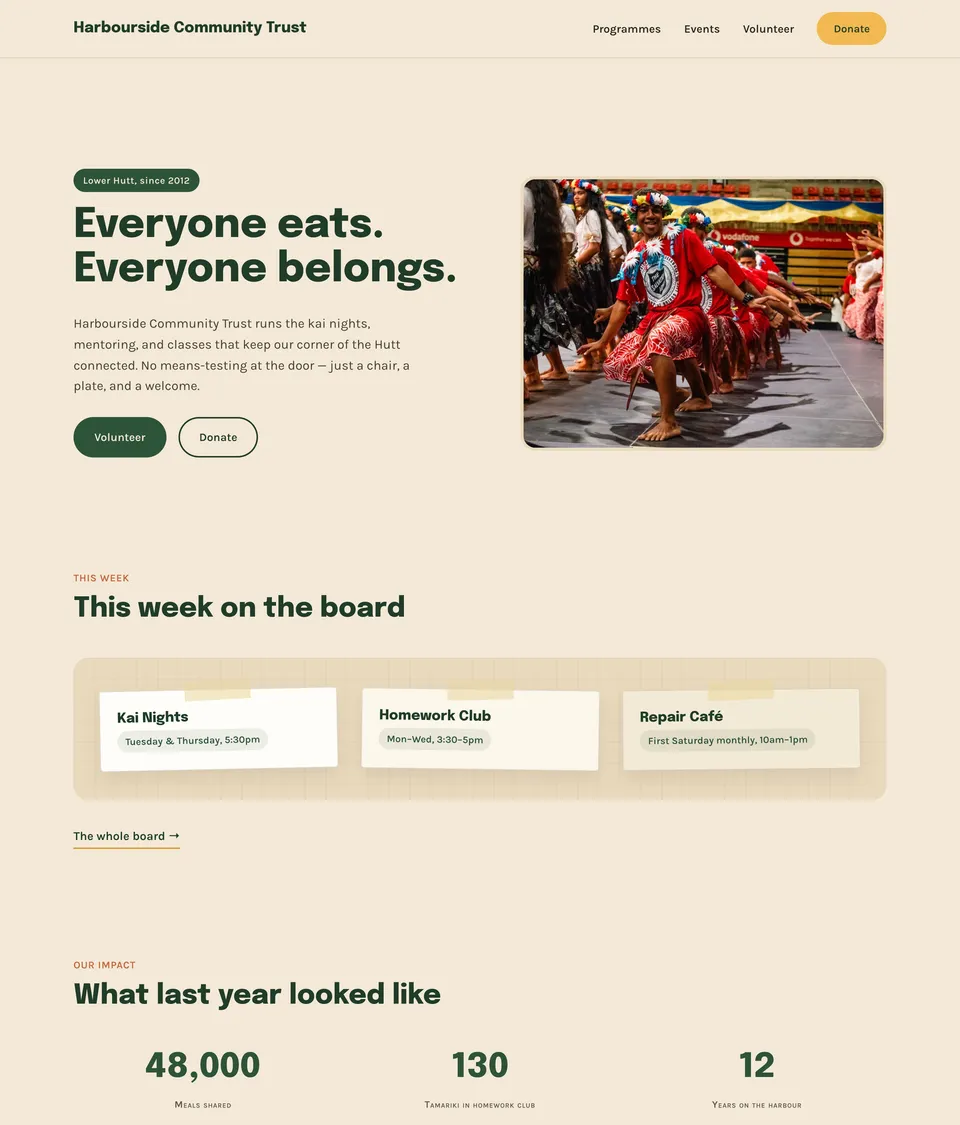
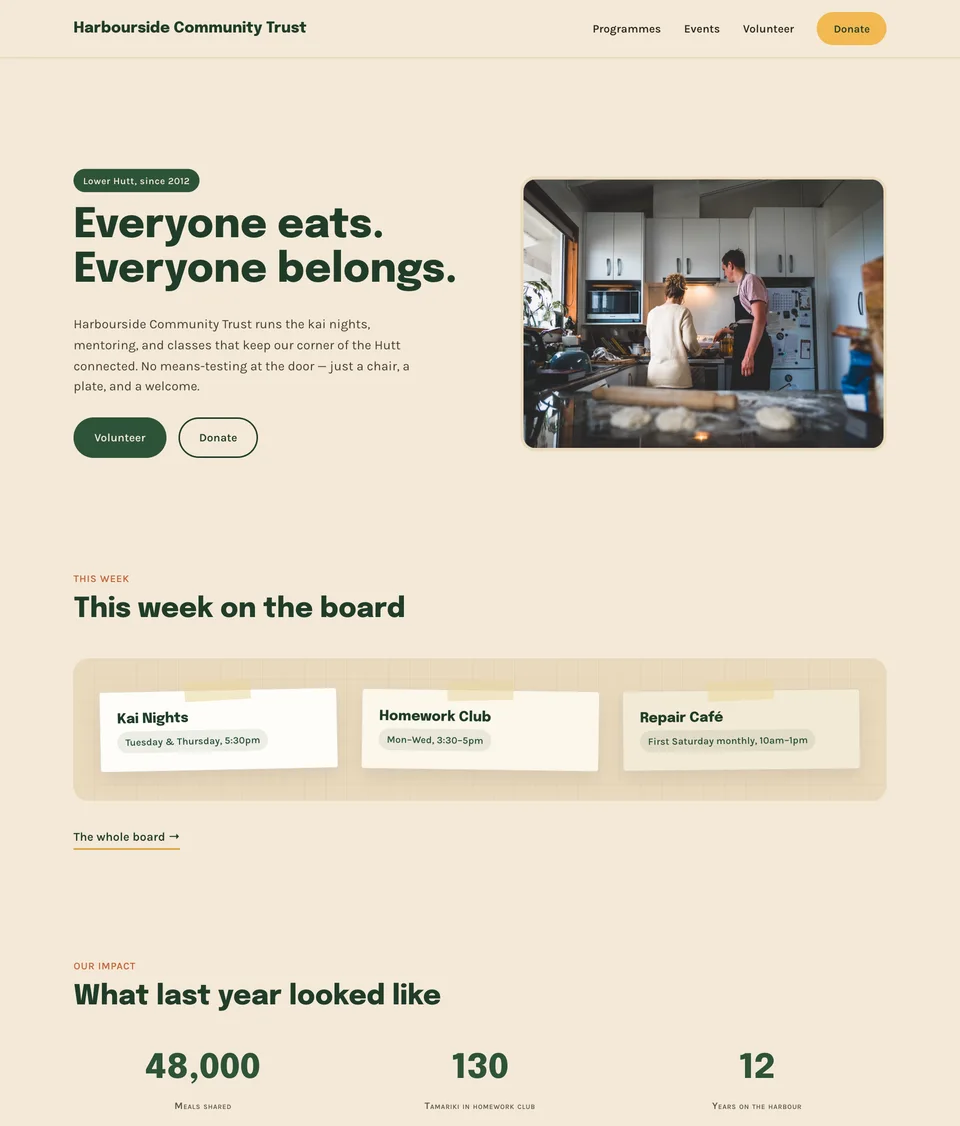
Remove real-world details from the template demos and reword the shop claim

Changed region(s): [[0.5312, 0.1556, 0.9375, 0.4044], [0.0938, 0.28, 0.375, 0.3111], [0.25, 0.8711, 0.2812, 0.9022]]

diff --git a/templates/commons.html b/templates/commons.html
@@ -642,7 +642,7 @@
           </div>
         </div>
         <div class="hero-photo-wrap">
-          <img src="../assets/img/gal-pasifika.jpg" alt="A community gathering in full swing, with people dancing and celebrating together." loading="eager">
+          <img src="../assets/img/archive/ar-kitchen.jpg" width="1400" height="933" alt="Two people cooking side by side in a kitchen, with dough and a rolling pin on the bench." loading="eager">
         </div>
       </div>
     </div>
@@ -702,7 +702,7 @@
     <div class="wrap">
       <h1 class="page-h1" data-anim>The board.</h1>
       <div class="photo-strip">
-        <img src="../assets/img/gal-kakahu.jpg" alt="Kākahu detail at a community celebration" loading="lazy">
+        <img src="../assets/img/gal-ferry-teal.jpg" alt="A ferry crossing the harbour below the hills." loading="lazy">
       </div>
       <div class="board">
         <div class="notice-grid cols-4">
@@ -762,42 +762,42 @@
 
       <div class="events-list">
         <div class="ev" data-type="kai">
-          <div class="ev-date"><span class="ev-day">14</span><span class="ev-mon">Jul</span></div>
+          <div class="ev-date" data-next="2,0"><span class="ev-day">Tue</span><span class="ev-mon"></span></div>
           <span class="ev-name">Kai Night</span>
           <span class="ev-tag">Kai</span>
         </div>
         <div class="ev" data-type="whanau">
-          <div class="ev-date"><span class="ev-day">18</span><span class="ev-mon">Jul</span></div>
-          <span class="ev-name">Matariki Whānau Day</span>
+          <div class="ev-date" data-next="6,3"><span class="ev-day">Sat</span><span class="ev-mon"></span></div>
+          <span class="ev-name">Whānau Day</span>
           <span class="ev-tag">Whānau</span>
         </div>
         <div class="ev" data-type="learning">
-          <div class="ev-date"><span class="ev-day">23</span><span class="ev-mon">Jul</span></div>
+          <div class="ev-date" data-next="4,7"><span class="ev-day">Thu</span><span class="ev-mon"></span></div>
           <span class="ev-name">Te Reo — new intake pōwhiri</span>
           <span class="ev-tag">Learning</span>
         </div>
         <div class="ev" data-type="whanau">
-          <div class="ev-date"><span class="ev-day">1</span><span class="ev-mon">Aug</span></div>
+          <div class="ev-date" data-next="6,8"><span class="ev-day">Sat</span><span class="ev-mon"></span></div>
           <span class="ev-name">Repair Café</span>
           <span class="ev-tag">Whānau</span>
         </div>
         <div class="ev" data-type="kai">
-          <div class="ev-date"><span class="ev-day">4</span><span class="ev-mon">Aug</span></div>
-          <span class="ev-name">Kai Night — 400th dinner!</span>
+          <div class="ev-date" data-next="2,11"><span class="ev-day">Tue</span><span class="ev-mon"></span></div>
+          <span class="ev-name">Kai Night</span>
           <span class="ev-tag">Kai</span>
         </div>
         <div class="ev" data-type="fundraiser">
-          <div class="ev-date"><span class="ev-day">8</span><span class="ev-mon">Aug</span></div>
+          <div class="ev-date" data-next="6,15"><span class="ev-day">Sat</span><span class="ev-mon"></span></div>
           <span class="ev-name">Quiz Night at the Workingmen's Club</span>
           <span class="ev-tag">Fundraiser</span>
         </div>
         <div class="ev" data-type="learning">
-          <div class="ev-date"><span class="ev-day">12</span><span class="ev-mon">Aug</span></div>
+          <div class="ev-date" data-next="3,18"><span class="ev-day">Wed</span><span class="ev-mon"></span></div>
           <span class="ev-name">Homework Club showcase</span>
           <span class="ev-tag">Learning</span>
         </div>
         <div class="ev" data-type="whanau">
-          <div class="ev-date"><span class="ev-day">30</span><span class="ev-mon">Aug</span></div>
+          <div class="ev-date" data-next="0,24"><span class="ev-day">Sun</span><span class="ev-mon"></span></div>
           <span class="ev-name">Harbour Clean-up + sausage sizzle</span>
           <span class="ev-tag">Whānau</span>
         </div>
@@ -873,9 +873,9 @@
       </div>
       <div class="notice donate-details" style="--tilt:1deg" data-tilt="1">
         <p class="dd-line">Harbourside Community Trust</p>
-        <p class="dd-line">02-0500-0345678-00</p>
+        <p class="dd-line">Your bank account here</p>
         <p class="dd-line">Ref: KOHA</p>
-        <p class="dd-fine">Registered charity CC-58214. Receipts for anything over $5 — email us.</p>
+        <p class="dd-fine">Your charity number goes here. This is a demo, so no donations are taken.</p>
       </div>
     </div>
   </section>
@@ -886,7 +886,7 @@
   <div class="wrap">
     <div class="footer-grid">
       <span class="footer-charity">Registered Charitable Trust — Lower Hutt, New Zealand</span>
-      <span><a href="mailto:hello@harboursidetrust.org.nz">hello@harboursidetrust.org.nz</a> · <a href="tel:+6445661029">04 566 1029</a></span>
+      <span><a href="mailto:hello@harboursidetrust.example">hello@harboursidetrust.example</a> · 04 555 0129</span>
       <span>© 2026 Harbourside Community Trust. Fictional trust, built for demonstration.</span>
     </div>
   </div>
@@ -897,6 +897,22 @@
   <span class="ss-demo-links"><a href="../templates.html">All templates</a><a href="mailto:kris@singhstudio.co.nz?subject=Template%20enquiry%20%E2%80%94%20The%20Commons">Make it yours →</a></span>
 </div>
 
+<script>
+/* Demo events always fall in the weeks ahead: data-next="weekday,minimum days from today" */
+(function () {
+  var M = ['Jan','Feb','Mar','Apr','May','Jun','Jul','Aug','Sep','Oct','Nov','Dec'];
+  document.querySelectorAll('.ev-date[data-next]').forEach(function (el) {
+    var r = el.getAttribute('data-next').split(','), d = new Date();
+    d.setDate(d.getDate() + (+r[1]));
+    while (d.getDay() !== +r[0]) d.setDate(d.getDate() + 1);
+    el.querySelector('.ev-day').textContent = d.getDate();
+    el.querySelector('.ev-mon').textContent = M[d.getMonth()];
+    el.parentNode.__t = d.getTime();
+  });
+  var list = document.querySelector('.events-list');
+  [].slice.call(list.children).sort(function (x, y) { return x.__t - y.__t; }).forEach(function (n) { list.appendChild(n); });
+})();
+</script>
 <script>
 (function () {
   // Events filter

diff --git a/shop/index.html b/shop/index.html
@@ -50,5 +50,5 @@
     <h2><a href="/shop/community-event-sponsorship-kit/">Community Event Sponsorship Kit</a></h2><p>A sponsor proposal, budget worksheet and delivery tracker for planning sponsorship and fulfilling the promises you make.</p>
     <div class="card-bottom"><p>PPTX · DOCX · XLSX</p><div class="card-actions"><a class="button" href="/shop/community-event-sponsorship-kit/" aria-label="View Community Event Sponsorship Kit">View product <span aria-hidden="true">↗</span></a></div></div></div>
   </article></div><div class="empty-state" hidden><h2>No matching products</h2><p>Try another search or browse all products.</p><button type="button" id="clear-filters">Clear filters</button></div>
-<aside class="bundle-feature"><div><p class="eyebrow">Squarespace plugin bundle</p><h2>All six plugins.</h2><p>Team Directory, Resource Library, Events Explorer, Sermon Shelf, Giving Kit and Service Times.</p><a href="/plugins/bundle/" class="button light">View the bundle <span>↗</span></a></div><div class="bundle-price"><span>From</span><strong>US$129</strong><small>One website · unlimited option available</small><p>Save US$85 on the six individual plugins.</p></div></aside><aside class="templates-feature"><div><p class="eyebrow">Website templates</p><h2>Proven layouts, tailored and built for you.</h2><p>Each one is a real layout I’ve built before, with a working demo, ready to carry your brand and your words.</p></div><a href="/templates.html" class="button">Browse the templates <span>→</span></a></aside><p class="tax-note">Prices are in US dollars, before any applicable tax. Your total is shown at checkout. Downloadable template kits are sold separately from the plugin bundle.</p></section>
+<aside class="bundle-feature"><div><p class="eyebrow">Squarespace plugin bundle</p><h2>All six plugins.</h2><p>Team Directory, Resource Library, Events Explorer, Sermon Shelf, Giving Kit and Service Times.</p><a href="/plugins/bundle/" class="button light">View the bundle <span>↗</span></a></div><div class="bundle-price"><span>From</span><strong>US$129</strong><small>One website · unlimited option available</small><p>Save US$85 on the six individual plugins.</p></div></aside><aside class="templates-feature"><div><p class="eyebrow">Website templates</p><h2>Ready-made layouts, tailored and built for you.</h2><p>Each one has a working demo you can click through, ready to carry your brand and your words.</p></div><a href="/templates.html" class="button">Browse the templates <span>→</span></a></aside><p class="tax-note">Prices are in US dollars, before any applicable tax. Your total is shown at checkout. Downloadable template kits are sold separately from the plugin bundle.</p></section>
 <section class="shopping-info container"><div><span>01</span><h2>Check the contents</h2><p>Every product lists its files, software requirements and licence. Plugin pages include a live demo.</p></div><div><span>02</span><h2>Download your files</h2><p>Your Lemon Squeezy order contains the download. Keep your receipt to access it again.</p></div><div><span>03</span><h2>Open the quickstart</h2><p>Each package includes instructions. Email Kris if you need help with a file or installation.</p></div></section></main><footer class="shop-footer"><div class="container"><div class="footer-main"><a class="footer-title" href="/shop/">Singh Studio <span>Shop</span></a><div><p>Questions about a product or your download?</p><a href="mailto:kris@singhstudio.co.nz">kris@singhstudio.co.nz</a></div></div><div class="footer-bottom"><span>© 2026 Singh Studio, Aotearoa New Zealand</span><nav aria-label="Footer"><a href="/shop/licences/">Licences</a><a href="/plugins/support/">Support</a><a href="/plugins/privacy/">Privacy</a><a href="/">Studio website ↗</a></nav></div></div></footer><script src="/shop/assets/shop.js" defer></script></body></html>

diff --git a/templates.html b/templates.html
@@ -4,9 +4,9 @@
   <meta charset="UTF-8">
   <meta name="viewport" content="width=device-width, initial-scale=1.0">
   <title>Website templates — Singh Studio</title>
-  <meta name="description" content="Proven website layouts, tailored to your brand and content and built by the studio. Seven starting points, each with a working demo.">
+  <meta name="description" content="Ready-made website layouts, tailored to your brand and content and built by me. Seven starting points, each with a working demo.">
   <meta property="og:title" content="Website templates — Singh Studio">
-  <meta property="og:description" content="Proven website layouts, tailored to your brand and content and built by the studio. Seven starting points, each with a working demo.">
+  <meta property="og:description" content="Ready-made website layouts, tailored to your brand and content and built by me. Seven starting points, each with a working demo.">
   <meta property="og:type" content="website">
   <meta property="og:site_name" content="Singh Studio">
   <meta property="og:locale" content="en_NZ">
@@ -29,7 +29,7 @@
     "@context": "https://schema.org",
     "@type": "ItemList",
     "name": "Singh Studio website templates",
-    "description": "Proven website layouts, tailored and built by Kris Singh.",
+    "description": "Ready-made website layouts, tailored and built by Kris Singh.",
     "itemListElement": [
       { "@type": "ListItem", "position": 1, "name": "The Toolbelt" },
       { "@type": "ListItem", "position": 2, "name": "The Counter" },
@@ -102,7 +102,7 @@
           </ol>
         </nav>
         <h1 class="sub-title tp-title"><span class="ht-line"><span class="ht-inner" data-letters>Ready<em class="ht-slash" aria-hidden="true">/</em>to go</span></span></h1>
-        <p class="tp-lede">Proven layouts, tailored to your brand and content and built by me, so there are no files for you to wrangle yourself.</p>
+        <p class="tp-lede">Ready-made layouts, tailored to your brand and content and built by me, so there are no files for you to wrangle yourself.</p>
       </div>
       <ul class="tp-ticks">
         <li><svg viewBox="0 0 20 20" width="20" height="20" aria-hidden="true"><path d="M4 10.5l4 4 8-9" fill="none" stroke="currentColor" stroke-width="2.2" stroke-linecap="square"/></svg>Design, build, content load and launch included</li>
@@ -272,7 +272,7 @@
               <span class="tp-bar"><i></i><i></i><i></i><b>The Commons</b></span>
               <span class="tp-view"><picture>
                 <source type="image/webp" srcset="assets/img/templates/commons-960.webp 960w, assets/img/templates/commons-1920.webp 1920w" sizes="(min-width:1100px) 440px, (min-width:700px) 46vw, 92vw">
-                <img src="assets/img/templates/commons-960.jpg" srcset="assets/img/templates/commons-960.jpg 960w, assets/img/templates/commons-1920.jpg 1920w" sizes="(min-width:1100px) 440px, (min-width:700px) 46vw, 92vw" width="1920" height="2250" alt="The Commons demo: a community trust website with a photo of dancers, volunteer and donate buttons and a weekly events board" loading="lazy" decoding="async">
+                <img src="assets/img/templates/commons-960.jpg" srcset="assets/img/templates/commons-960.jpg 960w, assets/img/templates/commons-1920.jpg 1920w" sizes="(min-width:1100px) 440px, (min-width:700px) 46vw, 92vw" width="1920" height="2250" alt="The Commons demo: a community trust website with a photo of two people cooking, volunteer and donate buttons and a weekly events board" loading="lazy" decoding="async">
               </picture></span>
             </span>
           </a>

diff --git a/templates/toolbelt.html b/templates/toolbelt.html
@@ -3,8 +3,8 @@
 <head>
 <meta charset="UTF-8">
 <meta name="viewport" content="width=device-width, initial-scale=1.0">
-<title>Demo: Ridgeline Builders — a Singh Studio template</title>
-<meta name="description" content="Demo site for Ridgeline Builders, a fictional Kāpiti Coast &amp; Wellington building firm. A live example of The Toolbelt, Singh Studio's template for trades and services businesses.">
+<title>Demo: Longshed Builders — a Singh Studio template</title>
+<meta name="description" content="Demo site for Longshed Builders, a fictional Kāpiti Coast &amp; Wellington building firm. A live example of The Toolbelt, Singh Studio's template for trades and services businesses.">
 <meta name="robots" content="noindex">
 <link rel="icon" type="image/png" sizes="32x32" href="../assets/img/favicon-32.png">
 <link rel="icon" href="../assets/img/ss-logo.png">
@@ -368,7 +368,7 @@
 
 <header class="topbar">
   <div class="wrap topbar-inner">
-    <a href="#/" data-nav class="wordmark">RIDGELINE<span>.</span></a>
+    <a href="#/" data-nav class="wordmark">LONGSHED<span>.</span></a>
     <nav class="nav-links" aria-label="Primary">
       <a href="#/services" data-nav>Services</a>
       <a href="#/jobs" data-nav>Recent jobs</a>
@@ -407,7 +407,7 @@
           <span class="dim-label">Site: Kāpiti Coast — Est. 2012 — LBP Licensed</span>
           <span class="dim-rule"></span>
         </div>
-        <p class="hero-sub h-fade">Ridgeline Builders handles new builds, renovations and reclads across the Kāpiti Coast and Wellington region — straight quotes, LBP-licensed crews, and a job site you won't be embarrassed to walk past.</p>
+        <p class="hero-sub h-fade">Longshed Builders handles new builds, renovations and reclads across the Kāpiti Coast and Wellington region — straight quotes, LBP-licensed crews, and a job site you won't be embarrassed to walk past.</p>
         <div class="hero-ctas h-fade">
           <a class="btn btn-primary" href="#/quote" data-nav>Get a quote</a>
           <a class="btn btn-outline" href="tel:+64275550148">Call now — 027 555 0148</a>
@@ -660,7 +660,7 @@
             <span class="job-meta">— Mele T, Tawa</span>
           </div>
           <div class="pull-quote" data-anim>
-            <p>Our third build with Ridgeline. There won't be a fourth builder.</p>
+            <p>Our third build with Longshed. There won't be a fourth builder.</p>
             <span class="job-meta">— Craig &amp; Jo M, Waikanae</span>
           </div>
           <div class="pull-quote" data-anim>
@@ -753,16 +753,16 @@
       <div>
         <h3>Contact</h3>
         <a href="tel:+64275550148">027 555 0148</a>
-        <a href="mailto:jobs@ridgelinebuilders.co.nz">jobs@ridgelinebuilders.co.nz</a>
+        <a href="mailto:jobs@longshedbuilders.example">jobs@longshedbuilders.example</a>
       </div>
       <div>
-        <h3>Ridgeline Builders</h3>
+        <h3>Longshed Builders</h3>
         <p>Kāpiti Coast &amp; Wellington</p>
         <p>LBP Licensed · Fully insured</p>
       </div>
     </div>
     <div class="footer-bottom">
-      <span>Ridgeline Builders is a fictional business created for demonstration purposes.</span>
+      <span>Longshed Builders is a fictional business created for demonstration purposes.</span>
       <span>Demo build by Singh Studio</span>
     </div>
   </div>

diff --git a/templates/programme.html b/templates/programme.html
@@ -411,8 +411,8 @@
           <h1 id="tt-h" class="display">Two days.</h1>
         </div>
         <div class="tt-tabs" role="group" aria-label="Choose conference day">
-          <button type="button" class="tt-tab" id="tt-day1" data-day="1" aria-pressed="true">Day 1 — Fri 13</button>
-          <button type="button" class="tt-tab" id="tt-day2" data-day="2" aria-pressed="false">Day 2 — Sat 14</button>
+          <button type="button" class="tt-tab" id="tt-day1" data-day="1" aria-pressed="true">Day 1 — Sat 13</button>
+          <button type="button" class="tt-tab" id="tt-day2" data-day="2" aria-pressed="false">Day 2 — Sun 14</button>
         </div>
         <div class="tt-stages" id="tt-stages" aria-live="polite">
           <!-- Static Day 1 fallback: renderTT() replaces this when JS runs -->
@@ -453,13 +453,13 @@
             <p class="kick">Standard</p>
             <p class="price mono">$449</p>
             <p class="desc">Both days, kai included, workshop access first-come</p>
-            <a class="tier-btn" href="mailto:tickets@gather27.nz?subject=Standard%20registration">Register →</a>
+            <a class="tier-btn" href="mailto:tickets@gather27.example?subject=Standard%20registration">Register →</a>
           </div>
           <div class="tier" data-anim>
             <p class="kick">Studio table</p>
             <p class="price mono">$1,990</p>
             <p class="desc">Five seats, front rows, a table that's yours for two days</p>
-            <a class="tier-btn" href="mailto:tickets@gather27.nz?subject=Studio%20Table%20registration">Register →</a>
+            <a class="tier-btn" href="mailto:tickets@gather27.example?subject=Studio%20Table%20registration">Register →</a>
           </div>
         </div>
         <p class="tickets-foot">Prices NZD incl. GST. Scholarships: five seats held every year — just ask.</p>
@@ -481,7 +481,7 @@
         <div>
           <h4>Get in touch</h4>
           <a href="mailto:kia-ora@gather27.example">kia-ora@gather27.example</a>
-          <a href="tel:+6444960000">+64 4 496 0000</a>
+          <span>04 555 0127</span>
         </div>
         <div>
           <h4>Follow</h4>

diff --git a/templates/folio.html b/templates/folio.html
@@ -243,7 +243,7 @@
     <div class="wrap about">
       <div class="about-grid">
         <figure class="about-portrait" data-anim>
-          <img src="../assets/img/gal-kakahu.jpg" loading="lazy" alt="A finely woven kākahu cloak laid out, feathers catching the light.">
+          <img src="../assets/img/gal-onset-bts.jpg" loading="lazy" alt="Seen from above, a photographer stands in the dark beside a camera on a tripod, facing a brightly lit white set.">
         </figure>
         <div class="about-copy">
           <h2 data-anim>The person behind the glass.</h2>
@@ -259,7 +259,7 @@
   <section data-page="contact">
     <div class="wrap contact">
       <span class="kicker" data-anim>Say hello</span>
-      <a class="contact-mail" href="mailto:hello@ellison.photo" data-anim>hello@ellison.photo</a>
+      <a class="contact-mail" href="mailto:hello@ellison.example" data-anim>hello@ellison.example</a>
       <svg class="u-line" viewBox="0 0 600 12" preserveAspectRatio="none" aria-hidden="true"><path d="M2 8 C150 2, 450 12, 598 6" fill="none" stroke="currentColor" stroke-width="2.5"/></svg>
       <div class="contact-meta">
         <span class="kicker" data-anim>Wellington · Aotearoa — replies within two days</span>

diff --git a/templates/ledger.html b/templates/ledger.html
@@ -905,8 +905,8 @@
 
             <div class="contact-info" data-anim>
               <p>Level 2, 15 Customhouse Quay, Wellington</p>
-              <p>04 555 0173 · <a href="mailto:office@coveandco.nz">office@coveandco.nz</a></p>
-              <a class="btn btn-brass" href="mailto:office@coveandco.nz?subject=Consult">Book a consult</a>
+              <p>04 555 0173 · <a href="mailto:office@coveandco.example">office@coveandco.example</a></p>
+              <a class="btn btn-brass" href="mailto:office@coveandco.example?subject=Consult">Book a consult</a>
               <p class="fine">First hour free. Bring the shoebox, we've seen worse.</p>
             </div>
           </div>

diff --git a/templates/storefront.html b/templates/storefront.html
@@ -736,7 +736,7 @@ footer.site-footer{ border-top:1px solid var(--line); padding-block:2.6rem; }
     <div>
       <a href="#/" data-nav class="wordmark">North <em>End</em></a>
       <p class="footer-meta">
-        Petone, Wellington · <a href="mailto:hello@northendcandle.co.nz">hello@northendcandle.co.nz</a><br>
+        Petone, Wellington · <a href="mailto:hello@northendcandle.example">hello@northendcandle.example</a><br>
         Returns accepted within 14 days, unused &amp; in original packaging. (Demo copy — no real orders are placed here.)
       </p>
     </div>

diff --git a/templates/counter.html b/templates/counter.html
@@ -496,7 +496,7 @@
       </div>
       <div>
         <h3>Say hello</h3>
-        <a href="mailto:kia-ora@littleharbourcafe.co.nz">kia-ora@littleharbourcafe.co.nz</a>
+        <a href="mailto:kia-ora@littleharbourcafe.example">kia-ora@littleharbourcafe.example</a>
         <a href="#">@littleharbourcafe</a>
       </div>
     </div>

diff --git a/IMAGE-MAP.md b/IMAGE-MAP.md
@@ -56,7 +56,7 @@ Most of these frames appear in **both** index.html's horizontal light-table stri
 |---|---|---|---|---|
 | `assets/img/gal-dancer-floor.jpg` | 1600×1200 | Landscape | Light table FR 002; Archive Movement set | Light table: standard card. Archive: masonry tile. |
 | `assets/img/gal-brass-rain.jpg` | 1447×1600 | Portrait | Light table FR 003 (`lt-tall`); Archive Documentary set; `templates/folio.html` gallery grid | Tall card / masonry / folio grid cell (600×663 in the demo). |
-| `assets/img/gal-pasifika.jpg` | 1600×1079 | Landscape | Light table FR 004; Archive Documentary set; **`templates/commons.html`** community-gathering photo | Standard card / masonry / commons demo hero-adjacent image. **Cross-use in a demo — see note below.** |
+| `assets/img/gal-pasifika.jpg` | 1600×1079 | Landscape | Light table FR 004; Archive Documentary set | Standard card / masonry / commons demo hero-adjacent image. **Cross-use in a demo — see note below.** |
 | `assets/img/gal-onset-bts.jpg` | 1200×1600 | Portrait | Light table FR 005 (`lt-tall`); Archive Movement set | Tall card / masonry. |
 | `assets/img/gal-joy-florals.jpg` | 1600×982 | Landscape | Light table FR 006; Archive People set; **`templates/counter.html`** ×2 (menu photo strip) | Standard card / masonry / counter demo. **Cross-use in a demo.** |
 | `assets/img/gal-kakahu.jpg` | 1600×901 | Landscape | Light table FR 007; Archive People set; `templates/folio.html` gallery grid | Standard card / masonry / folio grid cell (600×338). |
@@ -167,7 +167,7 @@ Total font weight ~74KB, matching the README's "74KB total, zero dependencies" c
 
 The seven template demos in `templates/` borrow real Singh Studio photography as placeholder set-dressing for their fictional businesses. If you replace one of these source files sitewide (e.g. reshoot and re-export `gal-cafe-doc.jpg`), the matching demo will pick up the new photo automatically since it points at the same path — usually desirable, but check the demo's `alt` text still makes sense for the new image before you consider the swap done:
 
-- **`templates/commons.html`** — uses `gal-pasifika.jpg` (community gathering) and `archive/ar-kitchen.jpg` (volunteers preparing food).
+- **`templates/commons.html`** — uses `archive/ar-kitchen.jpg` (home hero) and `gal-ferry-teal.jpg` (programmes strip).
 - **`templates/counter.html`** — uses `gal-cafe-doc.jpg` ×2 (café interior, counter) and `gal-joy-florals.jpg` ×2 (flowers on a café table).
 - **`templates/folio.html`** — uses the most: `hero-dancer-red.jpg` (as its own hero image), plus a 10-image gallery grid drawing on `gal-brass-rain.jpg`, `archive/ar-dancer-dark.jpg`, `gal-braided-river.jpg`, `archive/ar-window-light.jpg`, `gal-kakahu.jpg`, `archive/ar-dancers-leap.jpg`, `archive/ar-orange-cloth.jpg`, `gal-ferry-teal.jpg`, `archive/ar-alley-bw.jpg`, `archive/ar-bride-bouquet.jpg`, `archive/ar-snow-range.jpg`.
 - **`templates/toolbelt.html`, `templates/ledger.html`, `templates/programme.html`, `templates/storefront.html`** — do not reference any real Singh Studio photography; their imagery (if any) is CSS mockup blocks, not real files.
